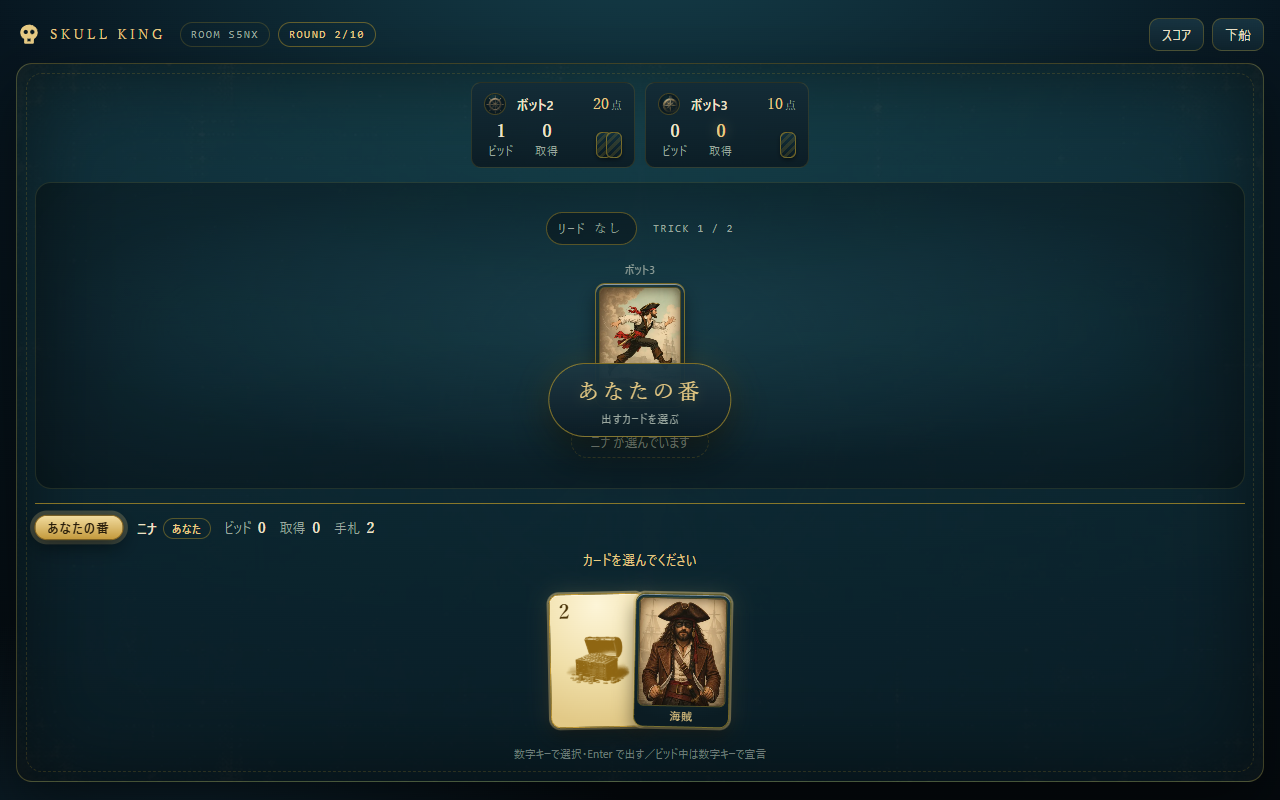
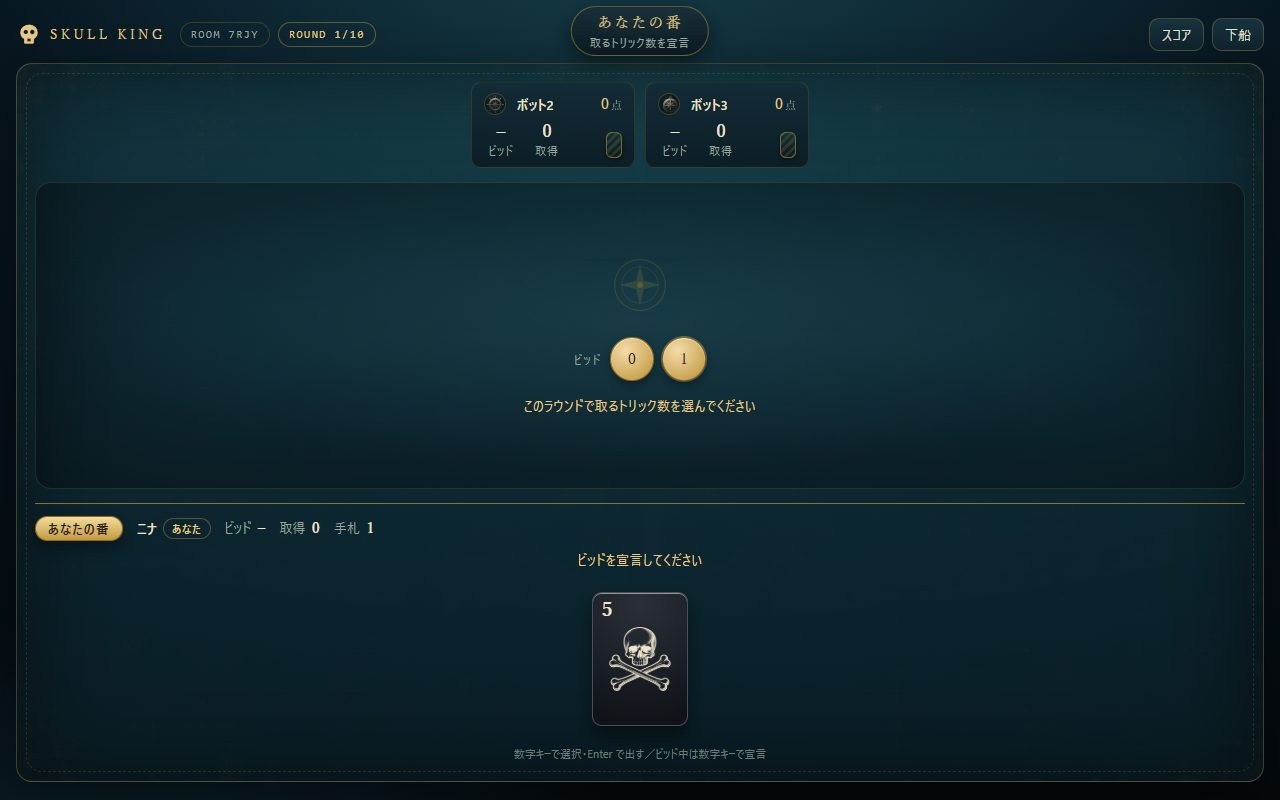
手番バナーをヘッダー帯へ移し、卓のカードに重ならないようにした

diff --git a/apps/web/styles.css b/apps/web/styles.css
@@ -1537,27 +1537,26 @@ input:focus {
 .phase-banner {
   position: fixed;
   left: 50%;
-  top: 50%;
+  /* 卓の上に出さない。ヘッダーの帯に収める（ここは常に空いている）。 */
+  top: 6px;
   transform: translateX(-50%);
   z-index: 50;
   display: flex;
   flex-direction: column;
   align-items: center;
-  gap: 2px;
-  padding: 10px 28px;
+  gap: 0;
+  padding: 4px 18px 5px;
   border-radius: var(--r-pill);
-  border: 1px solid rgba(201, 162, 39, 0.6);
-  background: linear-gradient(180deg, rgba(28, 55, 66, 0.97), rgba(12, 28, 36, 0.97));
-  box-shadow:
-    0 18px 40px rgba(0, 0, 0, 0.55),
-    0 0 30px rgba(201, 162, 39, 0.15);
+  border: 1px solid rgba(201, 162, 39, 0.45);
+  background: linear-gradient(180deg, rgba(24, 48, 58, 0.98), rgba(10, 25, 33, 0.98));
+  box-shadow: 0 6px 18px rgba(0, 0, 0, 0.45);
   pointer-events: none;
   animation: bannerIn 0.45s cubic-bezier(0.2, 0.9, 0.3, 1.2) both;
 }
 
 .phase-title {
   font-family: var(--font-display);
-  font-size: var(--fs-xl);
+  font-size: var(--fs-md);
   letter-spacing: 0.14em;
   color: var(--brass-l);
   text-shadow: 0 2px 12px rgba(201, 162, 39, 0.25);
@@ -1574,15 +1573,15 @@ input:focus {
 @keyframes bannerIn {
   0% {
     opacity: 0;
-    transform: translate(-50%, calc(-50% - 16px)) scale(0.94);
+    transform: translate(-50%, -8px) scale(0.96);
   }
   60% {
     opacity: 1;
-    transform: translate(-50%, calc(-50% + 2px)) scale(1.02);
+    transform: translate(-50%, 1px) scale(1.01);
   }
   100% {
     opacity: 1;
-    transform: translate(-50%, -50%) scale(1);
+    transform: translate(-50%, 0) scale(1);
   }
 }
 
